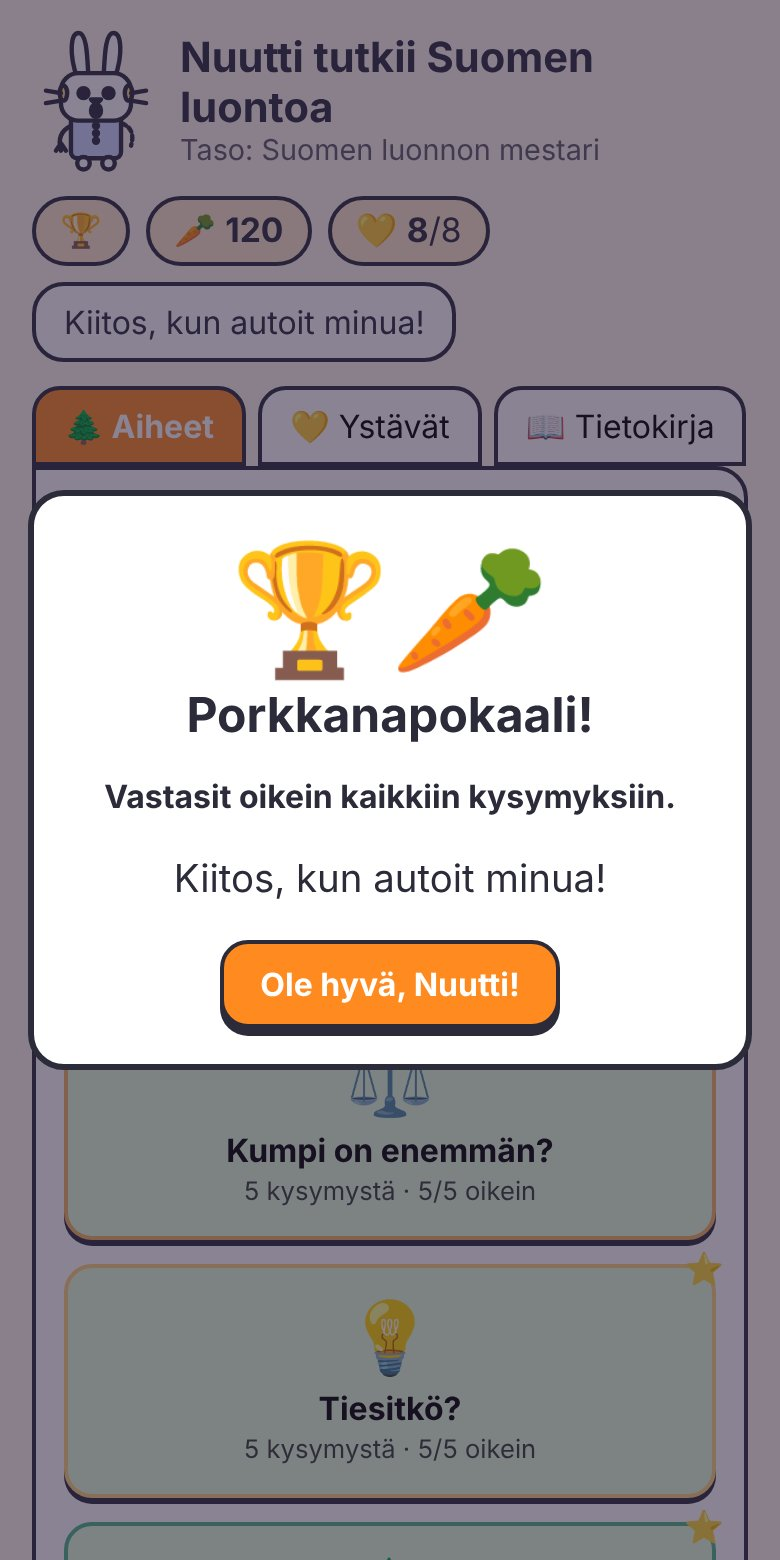
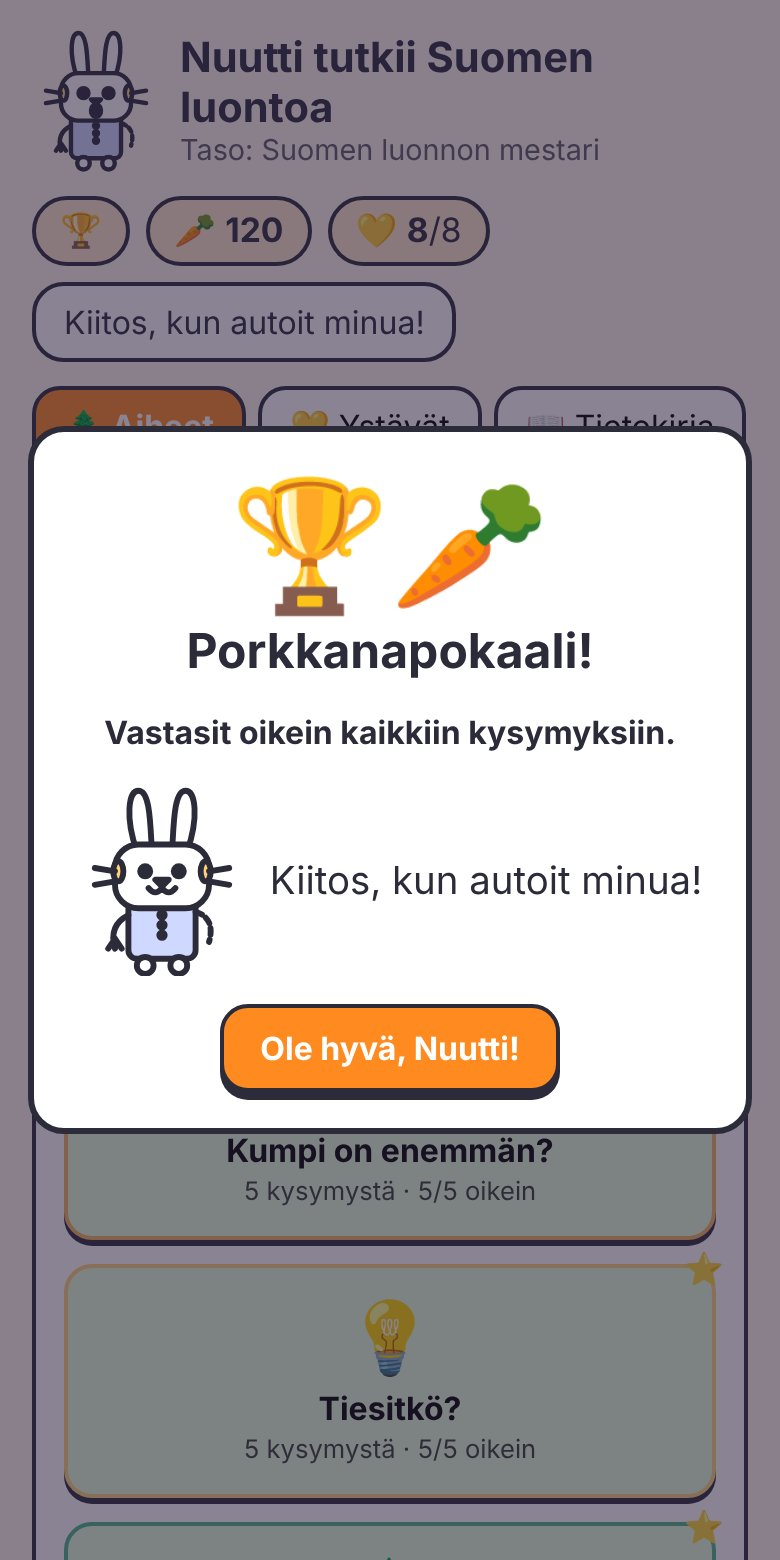
Näytä Nuutin kuva pokaaliruudun kiitostekstin vieressä
Claude-Session: https://claude.ai/code/session_011qqsw914CEUBtWUTFB6vz1

Changed region(s): [[0.0308, 0.2462, 0.9846, 0.7385]]

diff --git a/style.css b/style.css
@@ -114,3 +114,7 @@ footer { text-align: center; opacity: .6; font-size: .85rem; padding: 6px 16px 2
 .trophy-em { animation: trophy-pop .8s ease-out; }
 @keyframes trophy-pop { 0% { transform: scale(.3) rotate(-15deg); } 70% { transform: scale(1.2) rotate(5deg); } 100% { transform: scale(1) rotate(0); } }
 @media (prefers-reduced-motion: reduce) { .trophy-em { animation: none; } }
+.thanks { display: flex; align-items: center; justify-content: center; gap: 12px; margin: 8px 0 14px; }
+.thanks .big { margin: 0; text-align: left; }
+.thanks-nuutti { width: 84px; flex: none; }
+.thanks-nuutti svg { width: 100%; height: auto; display: block; }

diff --git a/app.js b/app.js
@@ -256,7 +256,7 @@
     const n = el(`<div class="reward"><div class="em trophy-em">🏆🥕</div>
       <h2>Porkkanapokaali!</h2>
       <p><b>Vastasit oikein kaikkiin kysymyksiin.</b></p>
-      <p class="big">Kiitos, kun autoit minua!</p>
+      <div class="thanks"><div class="thanks-nuutti" aria-hidden="true">${nuuttiSVG("happy")}</div><p class="big">Kiitos, kun autoit minua!</p></div>
       <button class="btn">Ole hyvä, Nuutti!</button></div>`);
     n.querySelector("button").onclick = closeModal;
     say("Kiitos, kun autoit minua!", "wow");
